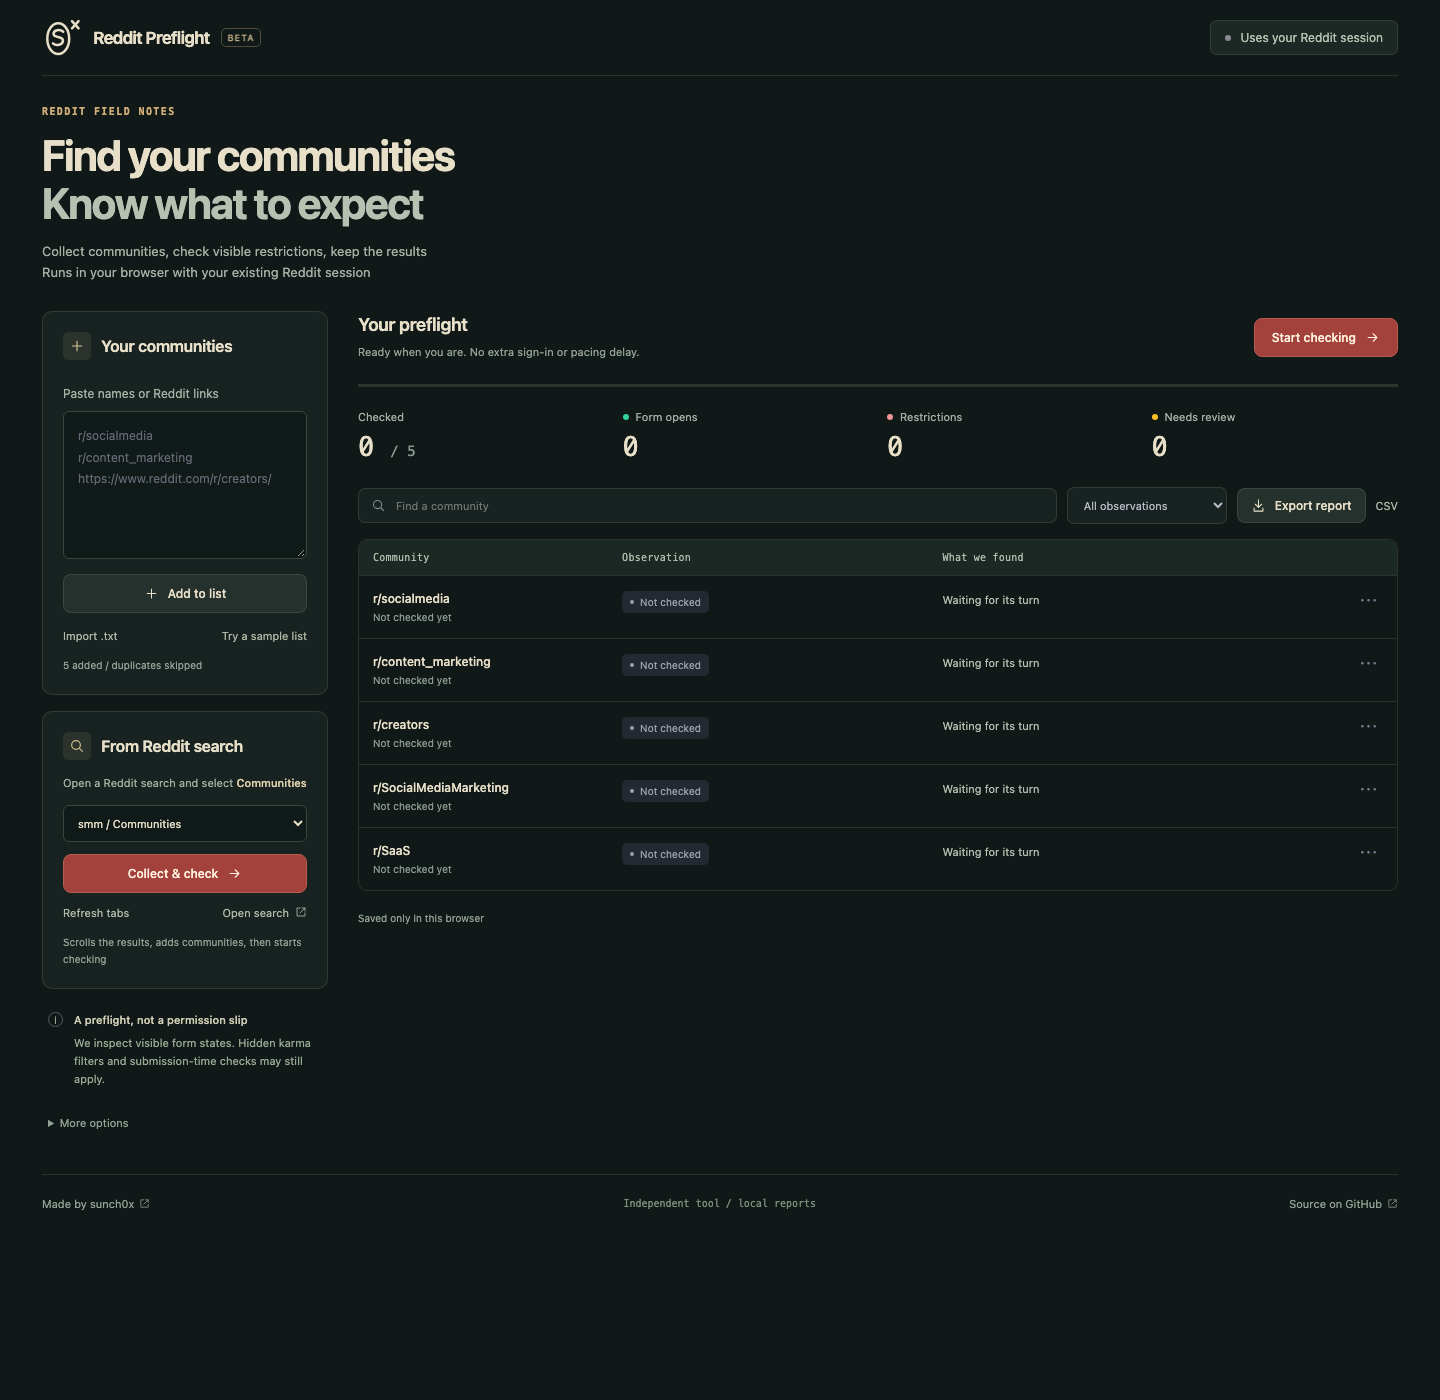
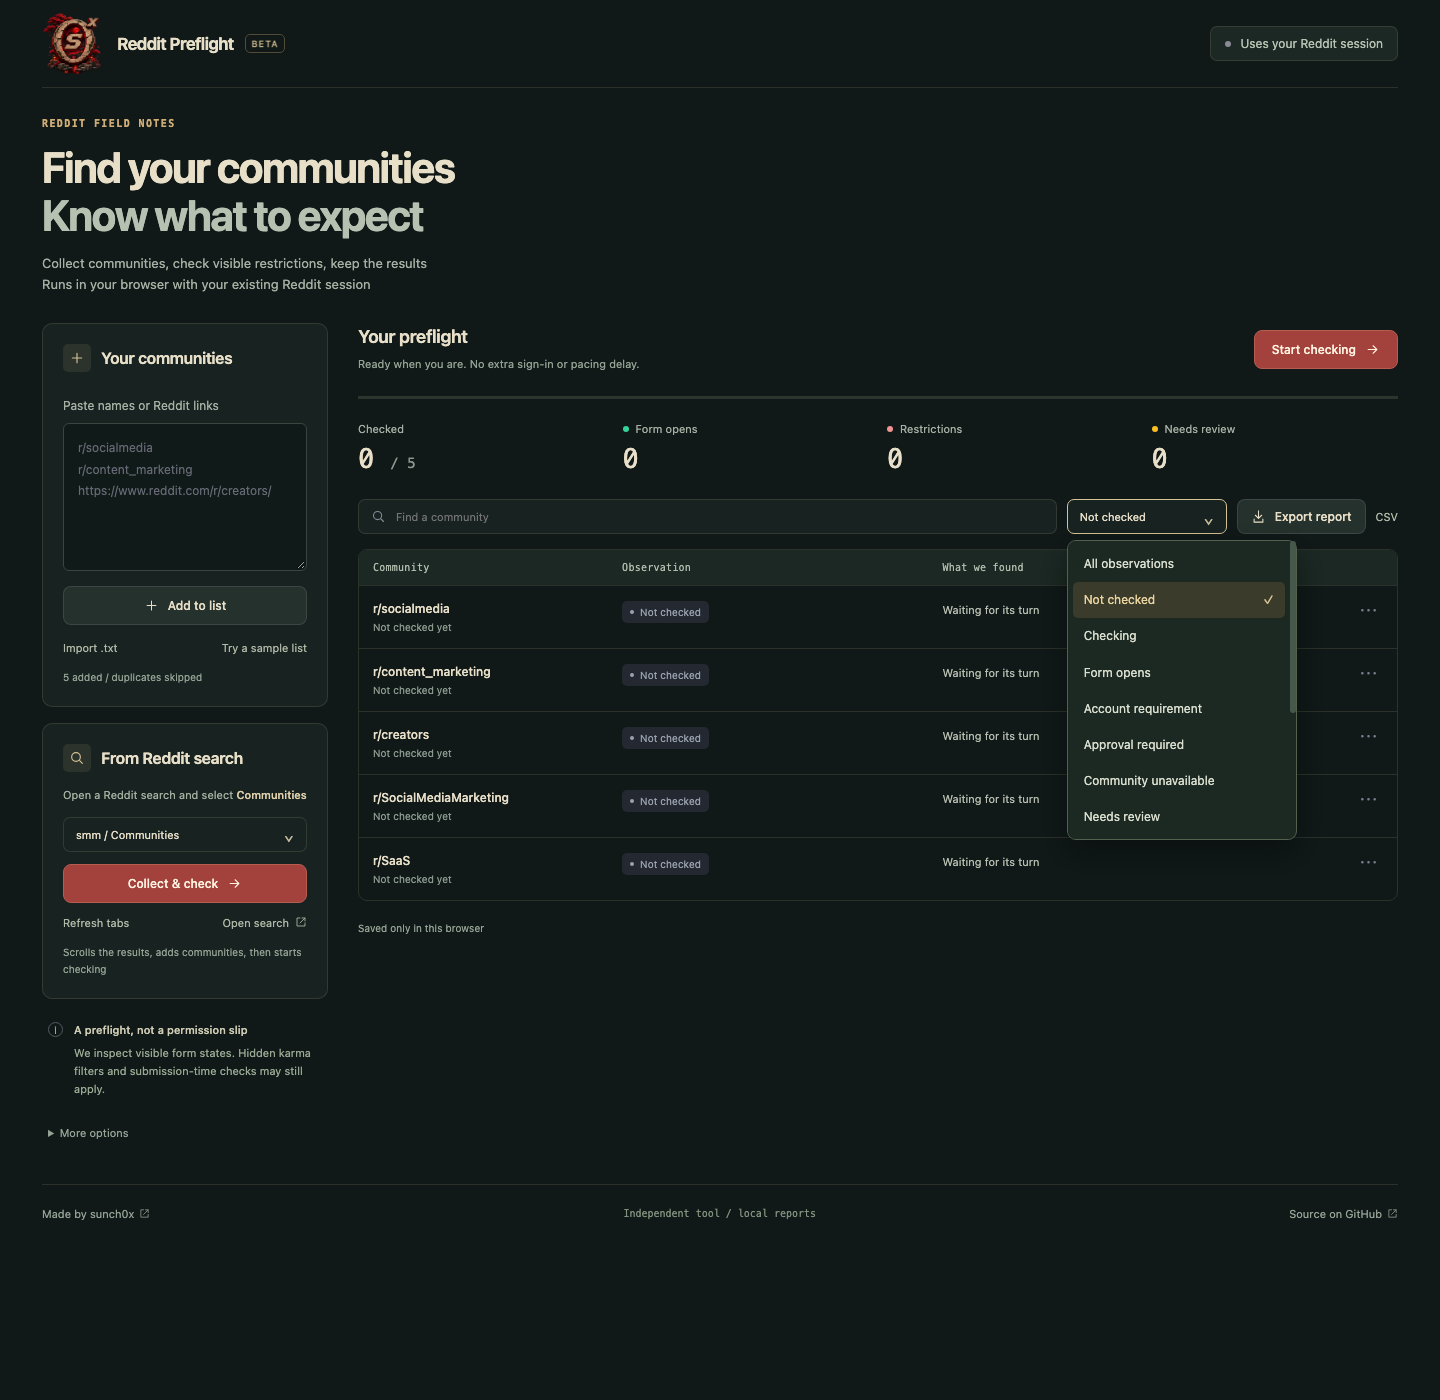
Add transparent creator emblem and custom accessible select menus

diff --git a/extension/select-menu.js b/extension/select-menu.js
@@ -1,0 +1,26 @@
+// Keep the existing select as the data model, render a consistent keyboard-friendly menu.
+export function enhanceSelects(root=document){
+ const closeAll=()=>document.querySelectorAll('.select-trigger[aria-expanded="true"]').forEach(b=>b.click());
+ for(const select of root.querySelectorAll('select')){
+  if(select.dataset.enhanced)continue;select.dataset.enhanced='true';
+  const button=document.createElement('button');button.type='button';button.className='select-trigger';button.id=select.id+'-trigger';
+  const label=document.createElement('span'),arrow=document.createElement('span');arrow.className='select-chevron';arrow.textContent='⌄';arrow.setAttribute('aria-hidden','true');button.append(label,arrow);
+  button.setAttribute('aria-haspopup','listbox');button.setAttribute('aria-expanded','false');button.setAttribute('aria-label',select.getAttribute('aria-label')||document.querySelector('label[for="'+select.id+'"]').textContent);
+  const menu=document.createElement('div');menu.className='select-options';menu.id=select.id+'-options';menu.role='listbox';menu.hidden=true;menu.setAttribute('aria-label',button.getAttribute('aria-label'));button.setAttribute('aria-controls',menu.id);
+  select.hidden=true;select.before(button);document.body.append(menu);
+  let active=0;
+  const items=()=>Array.from(menu.querySelectorAll('[role="option"]'));
+  const close=()=>{menu.hidden=true;button.setAttribute('aria-expanded','false');};
+  const position=()=>{const r=button.getBoundingClientRect(),width=Math.min(Math.max(r.width,230),innerWidth-24);menu.style.width=width+'px';menu.style.left=Math.max(12,Math.min(r.left,innerWidth-width-12))+'px';const height=Math.min(menu.scrollHeight,300),below=innerHeight-r.bottom-12;menu.style.top=(below>=height?r.bottom+6:Math.max(12,r.top-height-6))+'px';};
+  const sync=()=>{
+   label.textContent=select.selectedOptions[0]?.textContent||'Choose';button.disabled=select.disabled;
+   menu.replaceChildren();Array.from(select.options).forEach((option,index)=>{const item=document.createElement('button');item.type='button';item.role='option';item.tabIndex=-1;item.disabled=option.disabled;item.setAttribute('aria-selected',String(option.selected));const text=document.createElement('span');text.textContent=option.textContent;const check=document.createElement('span');check.className='select-check';check.textContent=option.selected?'✓':'';check.setAttribute('aria-hidden','true');item.append(text,check);item.onclick=()=>{select.value=option.value;select.dispatchEvent(new Event('change',{bubbles:true}));sync();close();button.focus();};item.onkeydown=e=>{if(e.key==='Escape'){e.preventDefault();close();button.focus();}else if(e.key==='Tab')close();else if(['ArrowDown','ArrowUp','Home','End'].includes(e.key)){e.preventDefault();active=e.key==='Home'?0:e.key==='End'?select.options.length-1:(index+(e.key==='ArrowDown'?1:-1)+select.options.length)%select.options.length;items()[active]?.focus();}};menu.append(item);});
+   if(select.disabled)close();else if(!menu.hidden)position();
+  };
+  button.onclick=()=>{if(!menu.hidden){close();return;}closeAll();sync();menu.hidden=false;button.setAttribute('aria-expanded','true');position();active=Math.max(0,select.selectedIndex);items()[active]?.focus({preventScroll:true});items()[active]?.scrollIntoView({block:'nearest'});};
+  button.onkeydown=e=>{if(['ArrowDown','ArrowUp'].includes(e.key)){e.preventDefault();if(menu.hidden)button.click();}};
+  document.addEventListener('pointerdown',e=>{if(!menu.contains(e.target)&&!button.contains(e.target))close();});
+  document.addEventListener('scroll',e=>{if(!menu.hidden&&!menu.contains(e.target))close();},true);window.addEventListener('resize',close);
+  select.addEventListener('change',sync);new MutationObserver(sync).observe(select,{childList:true,subtree:true,attributes:true,attributeFilter:['disabled','selected']});sync();
+ }
+}

diff --git a/extension/dashboard.html b/extension/dashboard.html
@@ -1,6 +1,6 @@
 <!doctype html><html lang="en"><head><meta charset="utf-8"><meta name="viewport" content="width=device-width,initial-scale=1"><title>Reddit Preflight</title><link rel="stylesheet" href="style.css"></head><body>
 <svg class="svg-defs" aria-hidden="true"><defs><symbol id="check" viewBox="0 0 24 24"><path d="m5 12 4 4L19 6"/></symbol><symbol id="arrow" viewBox="0 0 24 24"><path d="M5 12h14m-6-6 6 6-6 6"/></symbol><symbol id="plus" viewBox="0 0 24 24"><path d="M12 5v14M5 12h14"/></symbol><symbol id="download" viewBox="0 0 24 24"><path d="M12 3v12m-5-5 5 5 5-5M5 16v5h14v-5"/></symbol><symbol id="search-icon" viewBox="0 0 24 24"><circle cx="10.5" cy="10.5" r="6.5"/><path d="m16 16 4 4"/></symbol><symbol id="pause-icon" viewBox="0 0 24 24"><path d="M8 5v14M16 5v14"/></symbol><symbol id="external" viewBox="0 0 24 24"><path d="M14 4h6v6m0-6L10 14M10 4H4v16h16v-6"/></symbol><symbol id="trash" viewBox="0 0 24 24"><path d="M3 6h18M9 6V3h6v3M6 6l1 15h10l1-15M10 10v7m4-7v7"/></symbol></defs></svg>
-<div class="app"><header class="topbar"><a class="wordmark" href="dashboard.html"><span class="brand-mark"><img src="icons/mark.svg" alt="s in zero, superscript x"></span>Reddit Preflight <span class="beta">BETA</span></a><div class="account-pill" id="account-pill"><span class="dot"></span><span id="account-label">Uses your Reddit session</span></div></header>
+<div class="app"><header class="topbar"><a class="wordmark" href="dashboard.html"><span class="brand-mark"><img src="icons/emblem.png" alt="s in zero, superscript x"></span>Reddit Preflight <span class="beta">BETA</span></a><div class="account-pill" id="account-pill"><span class="dot"></span><span id="account-label">Uses your Reddit session</span></div></header>
 <section class="intro"><div class="eyebrow">REDDIT FIELD NOTES</div><h1>Find your communities<br><span>Know what to expect</span></h1><p>Collect communities, check visible restrictions, keep the results<br>Runs in your browser with your existing Reddit session</p></section>
 <div class="workspace"><aside><section class="panel input-panel"><div class="panel-heading"><span class="icon-tile"><svg><use href="#plus"/></svg></span><h2>Your communities</h2></div><label for="community-input">Paste names or Reddit links</label><textarea id="community-input" spellcheck="false" placeholder="r/socialmedia&#10;r/content_marketing&#10;https://www.reddit.com/r/creators/"></textarea><button id="add" class="button full"><svg><use href="#plus"/></svg>Add to list</button><div class="import-row"><label class="text-button file-button">Import .txt<input id="import-list" type="file" accept=".txt,text/plain"></label><button id="sample" class="text-button">Try a sample list</button></div><p class="micro" id="input-message" role="status">Duplicates are removed automatically</p></section>
 <section class="panel collect-panel"><div class="panel-heading"><span class="icon-tile"><svg><use href="#search-icon"/></svg></span><h2>From Reddit search</h2></div><p>Open a Reddit search and select <strong>Communities</strong></p><label class="sr-only" for="source-tab">Reddit search tab</label><select id="source-tab"><option value="">Looking for open search tabs…</option></select><button id="collect" class="button primary full"><span id="collect-label">Collect &amp; check</span><svg><use href="#arrow"/></svg></button><div class="import-row"><button id="refresh-source" class="text-button">Refresh tabs</button><a class="text-button" href="https://www.reddit.com/search/?q=social%20media&amp;type=communities" target="_blank" rel="noopener noreferrer">Open search <svg><use href="#external"/></svg></a></div><p class="micro" id="collect-message" role="status">Scrolls the results, adds communities, then starts checking</p></section>

diff --git a/extension/style.css b/extension/style.css
@@ -12,3 +12,11 @@ th{font-family:ui-monospace,SFMono-Regular,monospace;font-size:10px;letter-spaci
 .scan-bar p,.micro,.scan-details,footer,.list-settings{color:#93a294}.text-button{color:#b0b8a7}.text-button:hover{color:#ead7aa}.quiet-note{color:#99a893}.quiet-note strong{color:#cfccb4}.collect-panel>p:not(.micro){color:#a4b0a0}.collect-panel strong{color:#e0d1ad}.row-menu{background:#24322b;border-color:#465547;border-radius:7px}.row-menu button{color:#e0d8c1}.row-menu button:hover{background:#35453a}.checking{background:#343525;color:#e2ce9c}.user_confirmed{background:#273e33;color:#b7d4b0}dialog{background:#182321;border-color:#465547;border-radius:11px}.footer-note{font:10px ui-monospace,SFMono-Regular,monospace;color:#81917e}a:hover{color:var(--accent)}
 
 .brand-mark{width:40px;height:42px;background:transparent;box-shadow:none;border-radius:0}.brand-mark img{width:40px;height:40px;display:block}
+
+.select-trigger{display:flex;align-items:center;justify-content:space-between;gap:16px;min-width:160px;max-width:240px;padding:10px 12px;border:1px solid var(--line);border-radius:7px;background:#182321;color:#e8dfc9;font-size:11px;text-align:left;transition:background .18s,border-color .18s,transform .18s var(--ease)}
+.select-trigger>span:first-child{overflow:hidden;text-overflow:ellipsis;white-space:nowrap}.select-trigger:hover:not(:disabled){background:#24322b;border-color:#6b7159}.select-trigger:active:not(:disabled){transform:scale(.99)}.select-trigger[aria-expanded="true"]{border-color:#d6c394}.select-chevron{color:#c6bb9d;font-size:17px;line-height:12px}.collect-panel .select-trigger{width:100%;max-width:none;min-width:0;margin-bottom:12px}
+.select-options{position:fixed;z-index:1000;max-height:300px;overflow-y:auto;overscroll-behavior:contain;padding:5px;border:1px solid #53604e;border-radius:9px;background:#1c2923;box-shadow:0 12px 32px #0006;animation:arrive .14s var(--ease)}
+.select-options button{display:flex;align-items:center;justify-content:space-between;gap:18px;width:100%;border:0;border-radius:5px;padding:10px 11px;text-align:left;background:transparent;color:#d9decf;font-size:12px;line-height:1.35;transition:background .12s,color .12s}
+.select-options button:hover,.select-options button:focus-visible{background:#344237;color:#f1e2bd;outline:none}.select-options button[aria-selected="true"]{background:#3a3b2b;color:#ead4a0}.select-check{color:#d6c394}.table-tools .select-trigger{flex-shrink:0}@media(max-width:760px){.table-tools .select-trigger{min-width:145px;max-width:180px}}
+
+.topbar{height:88px}.brand-mark{width:64px;height:70px}.brand-mark img{width:64px;height:70px;object-fit:contain}

diff --git a/extension/dashboard.js b/extension/dashboard.js
@@ -1,3 +1,4 @@
+import {enhanceSelects} from './select-menu.js';
 import {LABELS,REASONS,escapeHTML as e,parseCommunities,exportCSV,exportHTML,validateBackup,isCommunitySearchURL,mergeCollected} from './core.js';
 import {collectSnapshot} from './snapshot.js';import {Scanner} from './scanner.js';
 import {Collector} from './collector.js';import {readSearchPage} from './search-page.js';
@@ -77,6 +78,7 @@ async function collectAndCheck(){
  });
 }
 async function init(){
+ enhanceSelects();
  const locks=await navigator.locks.query();
  const otherRunning=locks.held.some(lock=>lock.name==='reddit-preflight-runner');
  const stored=(await chrome.storage.local.get(KEY))[KEY];

diff --git a/docs/TESTING.md b/docs/TESTING.md
@@ -28,3 +28,6 @@ These checks must be performed in an ordinary Chrome profile with the unpacked e
 8. If the account changes, recheck all results instead of combining reports
 
 Do not submit test content to prove eligibility. Hidden requirements and submission-time checks remain outside the tool's scope.
+
+## Custom menus (0.2.3)
+Local Chromium DOM fixture verified filter selection, source-tab selection, Escape returning focus, disabled-state synchronization and 390px layout without horizontal overflow. This fixture does not validate authenticated Reddit behavior.

diff --git a/docs/assets/emblem-edit.md b/docs/assets/emblem-edit.md
@@ -1,0 +1,7 @@
+# Creator emblem
+
+Edited with the built-in imagegen tool from the user-supplied Crimson Blood Moon Stone Emblem.png.
+
+Prompt: Remove only the external black background and diffuse external red haze to transparent alpha. Preserve the stone zero, s, superscript x, red trees, pagodas, moon, lanterns and base. Keep the scenic interior opaque. Clean antialiased silhouette, no redesign or additional text.
+
+Result: extension/icons/emblem.png, RGBA PNG with alpha 0..255.
